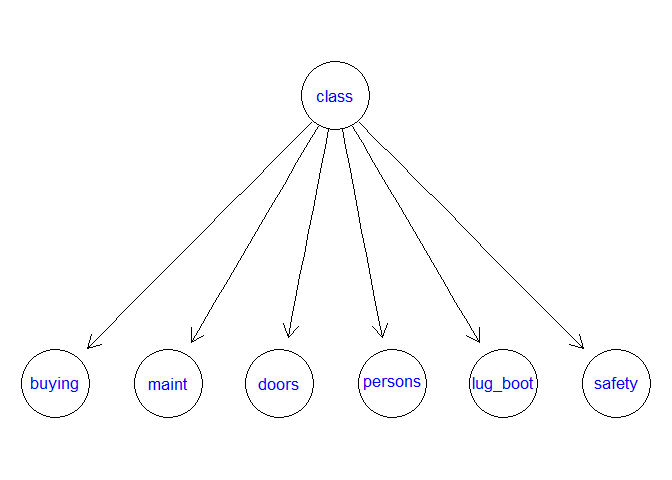
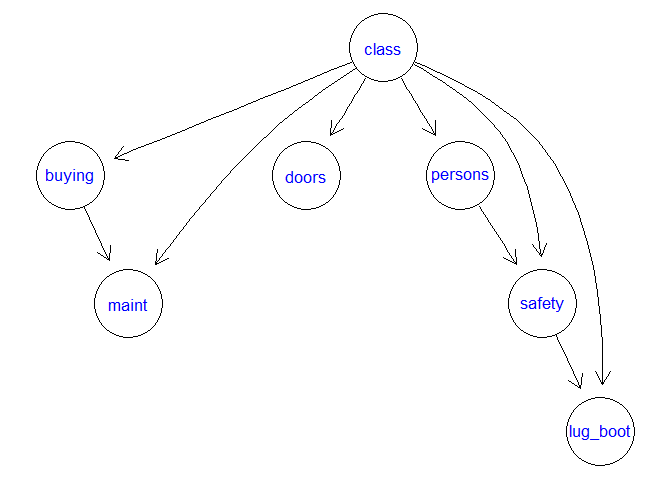
readme: aic instead of bic

diff --git a/README.md b/README.md
@@ -8,19 +8,19 @@ Implements algorithms for learning discrete Bayesian network classifiers from da
 Example
 =======
 
-Load a data set and learn a one-dependence estimator by maximizing the Bayesian information criterion (BIC) score.
+Load a data set and learn a one-dependence estimator by maximizing Akaike's information criterion (AIC) score.
 
 ``` r
 library(bnclassify)
 data(car)
-tn <- tan_cl('class', car, score = 'bic')
+tn <- tan_cl('class', car, score = 'aic')
 tn
 #> 
 #>   Bayesian network classifier (only structure, no parameters)
 #> 
 #>   class variable:        class 
 #>   num. features:   6 
-#>   num. arcs:   6 
+#>   num. arcs:   9 
 #>   learning algorithm:    tan_cl
 plot(tn)
 ```
@@ -33,13 +33,13 @@ After learning the network's parameters, you can use it to classify data.
 tn <- lp(tn, car, smooth = 0.01)
 p <- predict(tn, car, prob = TRUE)
 head(p)
-#>          unacc          acc         good        vgood
-#> [1,] 1.0000000 2.171346e-10 8.267214e-16 3.536615e-19
-#> [2,] 0.9999937 6.306269e-06 5.203338e-12 5.706038e-19
-#> [3,] 0.9999908 9.211090e-06 5.158884e-12 4.780777e-15
-#> [4,] 1.0000000 3.204714e-10 1.084552e-15 1.015375e-15
-#> [5,] 0.9999907 9.307467e-06 6.826088e-12 1.638219e-15
-#> [6,] 0.9999864 1.359469e-05 6.767760e-12 1.372573e-11
+#>      unacc          acc         good        vgood
+#> [1,]     1 3.963694e-09 5.682130e-09 4.269700e-09
+#> [2,]     1 1.752769e-09 3.310473e-12 3.236335e-09
+#> [3,]     1 3.730170e-09 1.090296e-08 1.800719e-12
+#> [4,]     1 3.963694e-09 5.682130e-09 4.269700e-09
+#> [5,]     1 4.562294e-09 6.965323e-09 4.536532e-09
+#> [6,]     1 4.281155e-09 5.366306e-09 5.168828e-09
 p <- predict(tn, car, prob = FALSE)
 head(p)
 #> [1] unacc unacc unacc unacc unacc unacc
@@ -50,14 +50,14 @@ Estimate predictive accuracy with cross validation.
 
 ``` r
 cv(tn, car, k = 10)
-#> [1] 0.8599223
+#> [1] 0.9409732
 ```
 
 Or compute the log-likelihood
 
 ``` r
 logLik(tn, car)
-#> 'log Lik.' -13503.84 (df=63)
+#> 'log Lik.' -13280.39 (df=131)
 ```
 
 Install
